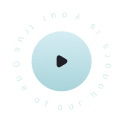
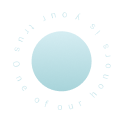
Set Counter In About Section

Changed region(s): [[0.4355, 0.439, 0.5565, 0.561]]

diff --git a/src/Pages/Home/_component/AboutWebCore.jsx b/src/Pages/Home/_component/AboutWebCore.jsx
@@ -1,8 +1,53 @@
-import React from "react";
+import React, { useEffect, useState } from "react";
 import Images from "../../../Setting/Images";
 import CustomButtonComponent from "../../../Components/CustomButton/CustomButtonComponent";
+import { useInView } from "react-intersection-observer";
 
 export default function AboutWebCore() {
+  const [count1, setCount1] = useState();
+  const [count2, setCount2] = useState();
+  const [count3, setCount3] = useState();
+  const { ref, inView } = useInView({ threshold: 0.1 });
+
+  useEffect(() => {
+    if (inView) {
+      let start = 0;
+      const end = 30;
+      const duration = 4000;
+      const stepTime = Math.abs(Math.floor(duration / end));
+      const timer = setInterval(() => {
+        start += 1;
+        setCount1(start);
+        if (start === end) clearInterval(timer);
+      }, stepTime);
+    }
+    if (inView) {
+      let start = 0;
+      const end = 74;
+      const duration = 4000;
+      const stepTime = Math.abs(Math.floor(duration / end));
+      const timer = setInterval(() => {
+        start += 1;
+        setCount2(start);
+        if (start === end) clearInterval(timer);
+      }, stepTime);
+    }
+    if (inView) {
+      let start = 0;
+      const end = 864;
+      const duration = 4000;
+      const stepTime = Math.abs(Math.floor(duration / end));
+      const timer = setInterval(() => {
+        start += 1;
+        setCount3(start);
+        if (start === end) clearInterval(timer);
+      }, stepTime);
+    }
+  }, [inView]);
+  const formattedCount1 = new Intl.NumberFormat("fa-IR").format(count1);
+  const formattedCount2 = new Intl.NumberFormat("fa-IR").format(count2);
+  const formattedCount3 = new Intl.NumberFormat("fa-IR").format(count3);
+
   return (
     <div className="w-full bg-[#141418] bg-[url('/src/assets/Images/RectGroup.png')] bg-cover py-20">
       <div className="container mx-auto grid md:grid-cols-2 grid-cols-1 gap-10">
@@ -27,14 +72,14 @@ export default function AboutWebCore() {
         <div className="flex lg:flex-row flex-col items-center sm:gap-3 gap-5 xl:mr-52 sm:px-0 px-5">
           <div className="flex md:flex-col md:w-auto w-full justify-between items-center">
             <span className="DanaBold py-3 sm:text-[55px] text-4xl text-center bg-clip-text text-transparent fill-transparent bg-gradient-to-l from-white to-[#58F4FF]">
-              ۳۰+
+              {formattedCount1}+
             </span>
             <span className="text-[#A9C1D4] text-center">اعضای خانواده ما</span>
           </div>
           <span className="lg:w-[1px] w-full lg:h-[100px] h-[1px] bg-[#4C4E59]"></span>
           <div className="flex md:flex-col md:w-auto w-full justify-between items-center">
             <span className="DanaBold py-3 sm:text-[55px] text-4xl text-center bg-clip-text text-transparent fill-transparent bg-gradient-to-l from-white to-[#58F4FF]">
-              ۷۴+
+              {formattedCount2}+
             </span>
             <span className="text-[#A9C1D4] text-center">
               محصولات تولید شده
@@ -42,8 +87,11 @@ export default function AboutWebCore() {
           </div>
           <span className="lg:w-[1px] w-full lg:h-[100px] h-[1px] bg-[#4C4E59]"></span>
           <div className="flex md:flex-col md:w-auto w-full justify-between items-center">
-            <span className="DanaBold py-3 sm:text-[55px] text-4xl text-center bg-clip-text text-transparent fill-transparent bg-gradient-to-l from-white to-[#58F4FF]">
-              ۸۴۶+
+            <span
+              ref={ref}
+              className="DanaBold py-3 sm:text-[55px] text-4xl text-center bg-clip-text text-transparent fill-transparent bg-gradient-to-l from-white to-[#58F4FF]"
+            >
+              {formattedCount3}+
             </span>
             <span className="text-[#A9C1D4] text-center">
               پروژه موفق داخلی و بینالمللی

diff --git a/src/Pages/Home/_component/Landing.jsx b/src/Pages/Home/_component/Landing.jsx
@@ -1,14 +1,31 @@
-import React, { useEffect, useState } from "react";
+import React, { useEffect, useRef, useState } from "react";
 import LinearIcons from "./LinearIcons";
 import { FaCircleArrowLeft } from "react-icons/fa6";
 import CustomButtonComponent from "../../../Components/CustomButton/CustomButtonComponent";
 import Images from "../../../Setting/Images";
+import { IoPlay } from "react-icons/io5";
+import gsap from "gsap";
 
 export default function Landing() {
   const [position, setPosition] = useState(0);
   const [direction, setDirection] = useState("up");
   const step = 80;
   const maxSteps = 3;
+
+  const elementRef = useRef(null);
+
+  useEffect(() => {
+    const rotationAnimation = gsap.to(elementRef.current, {
+      rotation: 360,
+      duration: 8,
+      repeat: -1,
+      ease: "linear",
+    });
+
+    return () => {
+      rotationAnimation.kill();
+    };
+  }, []);
 
   useEffect(() => {
     const interval = setInterval(() => {
@@ -40,8 +57,14 @@ export default function Landing() {
         alt=""
         className="md:block hidden absolute w-[550px] top-[-3rem] lg:left-[-11rem] left-[-18rem] opacity-5 z-0"
       />
-      <div className="w-full flex items-center justify-center">
-        <img src={Images.LandingSVG} alt="" className="w-[122px] z-[2]" />
+      <div className="flex items-center justify-center relative">
+        <img
+          src={Images.LandingSVG}
+          ref={elementRef}
+          alt=""
+          className="w-[122px] z-[2]"
+        />
+        <IoPlay className="text-[#202026] z-[3] text-[22px] absolute left-[51px]" />
       </div>
       <div className="w-full flex flex-col items-center relative sm:gap-6">
         <img

diff --git a/src/Pages/Home/_component/LinearIcons.jsx b/src/Pages/Home/_component/LinearIcons.jsx
@@ -42,17 +42,15 @@ export default function LinearIcons() {
   };
 
   return (
-    <div
-      onMouseEnter={handleMouseEnter}
-      onMouseLeave={handleMouseLeave}
-      className="relative flex items-center whitespace-nowrap"
-    >
+    <div className="relative flex items-center whitespace-nowrap">
       <div
         ref={carouselRef1}
         className="min-w-full flex items-center justify-between gap-3 absolute"
       >
         {ConfigIcons.map((item, index) => (
           <div
+            onMouseEnter={handleMouseEnter}
+            onMouseLeave={handleMouseLeave}
             className="bg-Secoundray p-3 icon rounded-2xl hover:shadow-Primary hover:shadow-[0px_0px_30px_-5px_rgba(23,225,255,0.5)] transition-all"
             key={index}
           >
@@ -70,6 +68,8 @@ export default function LinearIcons() {
       >
         {ConfigIcons.map((item, index) => (
           <div
+            onMouseEnter={handleMouseEnter}
+            onMouseLeave={handleMouseLeave}
             className="bg-Secoundray p-3 icon rounded-2xl hover:shadow-Primary hover:shadow-[0px_0px_30px_-5px_rgba(23,225,255,0.5)] transition-all"
             key={index}
           >

diff --git a/src/Components/EachCourseItem/EachCourseItemComponent.jsx b/src/Components/EachCourseItem/EachCourseItemComponent.jsx
@@ -11,7 +11,7 @@ export default function EachCourseItemComponent({
   likes,
 }) {
   return (
-    <div className="flex flex-col items-start gap-2 border-l border-solid border-[#4C4E59] px-4 group sm:hover:scale-105 transition-all relative">
+    <div className="flex flex-col items-start gap-2 border-l border-solid border-[#4C4E59] px-4 sm:group sm:hover:scale-105 transition-all relative">
       <img src={image} alt="" className="rounded-t-2xl" />
       <h3 className="text-white font-extrabold text-xl">{title}</h3>
       <div className="flex items-center">
